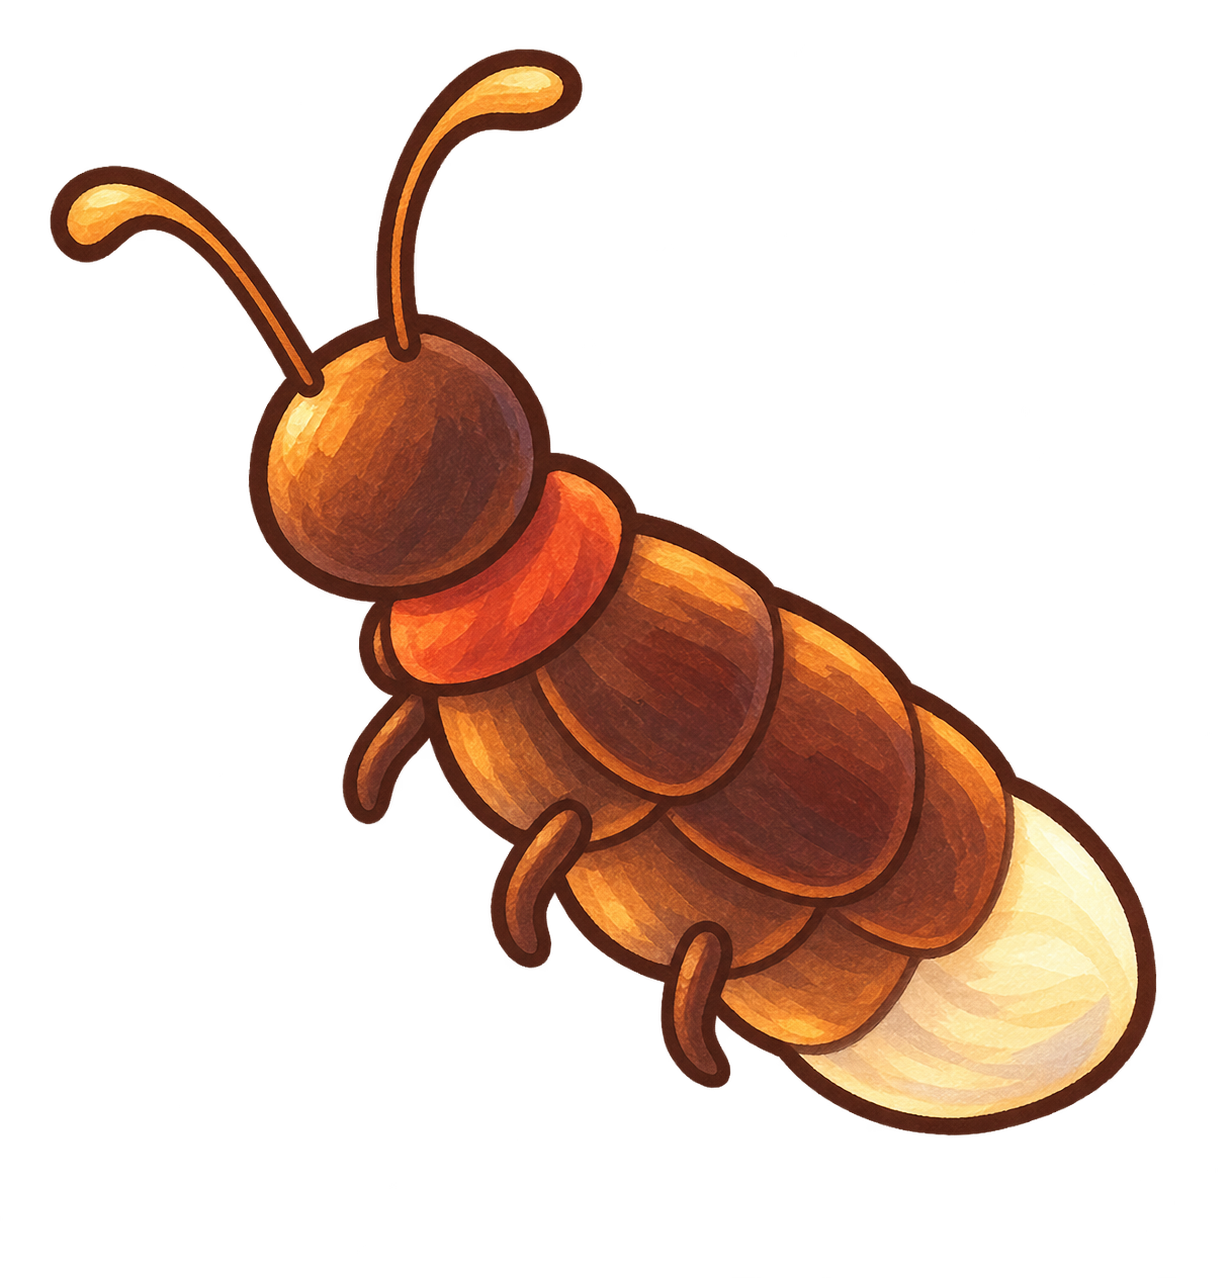
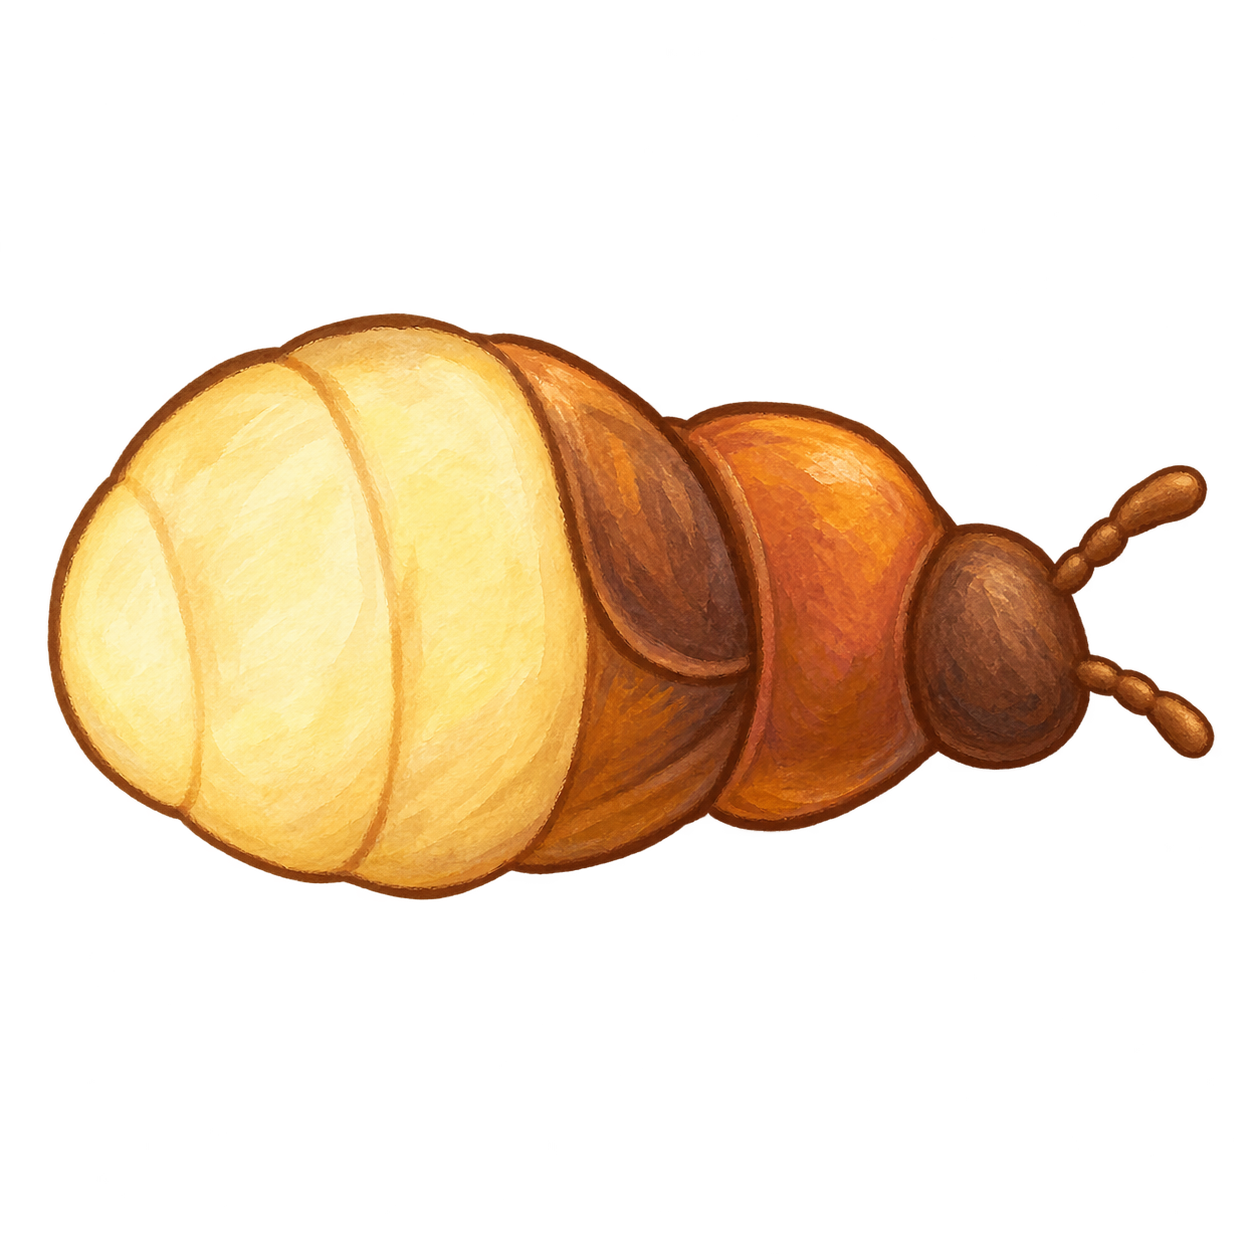
feat: the fireflies fly like insects, not like sprites on a path
New body/wing art (compact side profile, no face), and the animation
rebuilt around it with anchors measured off the sprites rather than
guessed: lantern centroid at x 0.237, wing hinge on the thorax.

The three things that make it read as flight:

- Heading. The body mirrors on the sign of horizontal velocity and
  pitches with vertical velocity, from analytic derivatives. Taken from
  the PRIMARY harmonic only — the fast wobble's velocity is as large as
  the drift's once divided by its short rate, which flipped the sprite
  every 1.3s and pegged pitch to the clamp. Heading follows the course,
  not the jitter: now a turn every 5.4s and a 14.3° peak under a 16°
  clamp it never reaches.
- Wings hinge instead of squashing. A 0x0 pivot view sits on the hinge,
  so its transform origin IS the hinge; scaleY read as the wing
  shrinking. Near and far wings beat ~10Hz with a phase lag.
- Drift stays in the jar. Home range plus max amplitude lands at
  x 0.133-0.858, y 0.143-0.827 — the old spec reached -0.063 and 1.048
  and would have clipped through the glass.

Each animated style keeps its single transform key on its own layer;
two in one array silently discards one.

diff --git a/components/jar/Firefly.tsx b/components/jar/Firefly.tsx
@@ -6,56 +6,79 @@ const BODY = require('@/assets/jar/fly-body.webp');
 const WING = require('@/assets/jar/fly-wing.webp');
 const GLOW = require('@/assets/jar/glow.webp');
 
-const BODY_AR = 176 / 173;
-const WING_AR = 176 / 79;
-/** Measured off fly-body.webp: the pale abdomen, as a fraction of the sprite. */
-export const LANTERN = { x: 0.823, y: 0.817 };
+/** All measured off the art, not guessed. The body is a side profile facing
+ *  RIGHT: lantern at the tail (left), thorax toward the head (right). */
+const BODY_AR = 200 / 101;
+const WING_AR = 200 / 152;
+/** Pale abdomen centroid, as a fraction of the body sprite. */
+const LANTERN = { x: 0.237, y: 0.476 };
+/** Where the wings hinge — on top of the thorax, which measured at x 0.615. */
+const WING_HINGE = { x: 0.575, y: 0.30 };
+/** The point on the wing sprite that sits at the hinge (its narrow root). */
+const WING_ROOT = { x: 0.12, y: 0.86 };
 
-/** Per-firefly constants, derived from an index so a re-render never reshuffles. */
 export interface FlySpec {
+  /** Sprite WIDTH — the body is nearly 2:1, so width is the honest dimension. */
   size: number;
-  /** Drift, as a fraction of the containing box. */
   homeX: number; homeY: number;
   ampX: number; ampY: number;
   rateX: number; rateY: number;
   phaseX: number; phaseY: number;
-  /** Flash cycle in seconds, and where in it this one starts. */
+  /** A faster second harmonic per axis, so the path never quite repeats. */
+  ampX2: number; ampY2: number;
+  rateX2: number; rateY2: number;
   period: number; offset: number;
-  /** Wingbeat rate, so they don't buzz in unison either. */
-  wing: number;
+  /** Wingbeat rate, and the far wing's lag behind the near one. */
+  beat: number; beatLag: number;
+  double: boolean;
 }
 
-/** Deterministic pseudo-random from an index — same jar every render. */
+/** Deterministic from the index — the same jar draws the same every render. */
 export function flySpec(i: number, seed = 0): FlySpec {
   const r = (n: number) => {
     const s = Math.sin((i + 1) * 12.9898 + n * 78.233 + seed * 3.71) * 43758.5453;
     return s - Math.floor(s);
   };
   return {
-    size: 17 + r(1) * 8,
-    homeX: 0.14 + r(2) * 0.72,
-    homeY: 0.14 + r(3) * 0.72,
-    // Wide enough to actually read as flight, and different per axis so the
-    // path is a lissajous loop rather than a diagonal shuffle.
-    ampX: 0.10 + r(4) * 0.16,
-    ampY: 0.08 + r(5) * 0.13,
-    rateX: 3.1 + r(6) * 3.4,
-    rateY: 2.3 + r(7) * 3.1,
+    size: 30 + r(1) * 16,
+    // Home range plus max amplitude has to stay inside 0–1 or the fly clips on
+    // the jar wall: 0.26..0.74 home and 0.18 total swing lands at 0.08..0.92,
+    // which leaves room for the sprite's own half-width.
+    homeX: 0.26 + r(2) * 0.48,
+    homeY: 0.26 + r(3) * 0.48,
+    ampX: 0.07 + r(4) * 0.07,
+    ampY: 0.055 + r(5) * 0.055,
+    // These are DIVISORS, so the period is 2*PI*rate. The old 3.7–7.6 meant a
+    // 23–48 second sweep, which is barely motion at all; 1.1–2.5 gives a 7–16
+    // second drift. Non-simple ratios between the axes so the path never closes
+    // into a figure-eight the eye can learn.
+    rateX: 1.1 + r(6) * 1.4,
+    rateY: 0.9 + r(7) * 1.1,
     phaseX: r(8) * Math.PI * 2,
     phaseY: r(9) * Math.PI * 2,
-    period: 2.4 + r(10) * 2.6,
-    offset: r(11),
-    wing: 17 + r(12) * 9,
+    // The second harmonic must be FASTER than the first — fine wobble riding on
+    // the slow drift. Smaller divisor, smaller amplitude.
+    ampX2: 0.018 + r(10) * 0.022,
+    ampY2: 0.014 + r(11) * 0.02,
+    rateX2: 0.3 + r(12) * 0.4,
+    rateY2: 0.26 + r(13) * 0.34,
+    period: 2.4 + r(14) * 2.8,
+    offset: r(15),
+    // ~9–12Hz. Fast enough to flutter, slow enough not to strobe at 60fps — a
+    // literal 50Hz wingbeat just aliases into jitter.
+    beat: 58 + r(16) * 20,
+    beatLag: 0.35 + r(17) * 0.5,
+    double: r(18) < 0.32,
   };
 }
 
 /**
- * One firefly: a lissajous drift, a flash envelope, and beating wings.
+ * One firefly: drifting flight, a flash envelope, and hinged wings.
  *
- * The glow is a pre-rendered radial sprite rather than a coloured View. A View
- * with a background colour and a shadow renders as a hard disc with a smear
- * around it — the falloff a real glow needs can't be expressed that way in RN,
- * and it reads as a flat blob at any size.
+ * The body banks and turns to face where it's going — mirrored on the sign of
+ * horizontal velocity, pitched by vertical velocity. That's the single biggest
+ * difference between "a sprite being moved around" and "a thing flying", and it
+ * costs two extra derivatives.
  */
 export function Firefly({
   spec,
@@ -63,7 +86,6 @@ export function Firefly({
   boxW,
   boxH,
   reduce,
-  /** 0 = settled at home, 1 = flung outward along its own heading. */
   scatter,
 }: {
   spec: FlySpec;
@@ -73,105 +95,167 @@ export function Firefly({
   reduce: boolean;
   scatter?: SharedValue<number>;
 }) {
-  const R = spec.size;
-  const bodyH = R / BODY_AR;
+  const W = spec.size;
+  const H = W / BODY_AR;
 
   const container = useAnimatedStyle(() => {
     'worklet';
     const t = clock.value;
-    const dx = Math.sin(t / spec.rateX + spec.phaseX) * spec.ampX;
-    const dy = Math.cos(t / spec.rateY + spec.phaseY) * spec.ampY;
-    let x = (spec.homeX + dx) * boxW - R / 2;
-    let y = (spec.homeY + dy) * boxH - bodyH / 2;
+    const dx = Math.sin(t / spec.rateX + spec.phaseX) * spec.ampX
+             + Math.sin(t / spec.rateX2 + spec.phaseY) * spec.ampX2;
+    const dy = Math.cos(t / spec.rateY + spec.phaseY) * spec.ampY
+             + Math.cos(t / spec.rateY2 + spec.phaseX) * spec.ampY2;
 
-    // Scatter: keep looping, but let the loop grow and travel outward so they
-    // spiral away crossing each other rather than firing off in straight lines.
+    let x = (spec.homeX + dx) * boxW - W / 2;
+    let y = (spec.homeY + dy) * boxH - H / 2;
+
     const s = scatter ? scatter.value : 0;
     if (s > 0) {
-      const heading = spec.phaseX + spec.phaseY;
+      const head = spec.phaseX + spec.phaseY;
       const spin = t * 2.4 + spec.offset * 6.28;
       const reach = s * Math.max(boxW, boxH) * 1.25;
-      x += Math.cos(heading) * reach + Math.cos(spin) * s * 46;
-      y += Math.sin(heading) * reach + Math.sin(spin) * s * 46;
+      x += Math.cos(head) * reach + Math.cos(spin) * s * 46;
+      y += Math.sin(head) * reach + Math.sin(spin) * s * 46;
     }
-    return { transform: [{ translateX: x }, { translateY: y }], opacity: 1 - (s > 0 ? s * s : 0) };
+    return { transform: [{ translateX: x }, { translateY: y }], opacity: 1 - s * s };
   }, [boxW, boxH]);
 
+  // Heading lives on its own layer. Two `transform` keys in one style array
+  // silently discard one — the bug that flattened the wing mirror last time.
+  const heading = useAnimatedStyle(() => {
+    'worklet';
+    if (reduce) return { transform: [{ scaleX: 1 }, { rotate: '0deg' }] };
+    const t = clock.value;
+    // Analytic derivatives — smoother and cheaper than differencing frames.
+    //
+    // Deliberately the PRIMARY harmonic only. The second harmonic is a small
+    // fast wobble, but dividing by its short rate makes its velocity as large
+    // as the drift's, so including it flipped the sprite every 1.3s and pinned
+    // pitch to the clamp. Heading follows the course, not the jitter.
+    const vx = Math.cos(t / spec.rateX + spec.phaseX) * (spec.ampX / spec.rateX);
+    const vy = -Math.sin(t / spec.rateY + spec.phaseY) * (spec.ampY / spec.rateY);
+    const dir = vx >= 0 ? 1 : -1;
+    // Noses up on the climb, down on the dive. Scaled so a typical drift sits
+    // well inside the clamp and only the steepest climb reaches it — an insect
+    // tilts a little; pegged at the limit reads as tumbling.
+    const pitch = Math.max(-16, Math.min(16, vy * 130)) * dir;
+    return { transform: [{ scaleX: dir }, { rotate: `${pitch}deg` }] };
+  }, [reduce]);
+
+  // One envelope, read by both the glow and the body, so the lantern and the
+  // lit-up body can never drift out of step.
   const glowStyle = useAnimatedStyle(() => {
     'worklet';
-    if (reduce) return { opacity: 0.55, transform: [{ scale: 1 }] };
+    if (reduce) return { opacity: 0.5, transform: [{ scale: 1 }] };
     const t = clock.value;
     const u = (((t / spec.period + spec.offset) % 1) + 1) % 1;
-    const ATTACK = 0.05;
-    const DECAY = 0.2;
+    const A = 0.035, D = 0.17;
     let l = 0;
-    if (u < ATTACK) l = u / ATTACK;
-    else if (u < ATTACK + DECAY) l = Math.pow(1 - (u - ATTACK) / DECAY, 1.8);
-    // Fine jitter so the light has texture instead of a clean ramp.
-    if (l > 0) l = Math.min(1, l * (1 + Math.sin(t * 34 + spec.offset * 9) * 0.09));
-    return { opacity: l, transform: [{ scale: 0.55 + l * 0.75 }] };
+    if (u < A) l = u / A;
+    else if (u < A + D) l = Math.pow(1 - (u - A) / D, 1.9);
+    else if (spec.double) {
+      const u2 = u - (A + D + 0.06);
+      if (u2 > 0 && u2 < 0.11) l = Math.pow(1 - u2 / 0.11, 1.6) * 0.55;
+    }
+    if (l > 0) l = Math.min(1, l * (1 + Math.sin(t * 31 + spec.offset * 9) * 0.08));
+    return { opacity: l, transform: [{ scale: 0.5 + l * 0.8 }] };
   }, [reduce]);
 
   const bodyStyle = useAnimatedStyle(() => {
     'worklet';
-    if (reduce) return { opacity: 0.85 };
+    if (reduce) return { opacity: 0.9 };
     const t = clock.value;
     const u = (((t / spec.period + spec.offset) % 1) + 1) % 1;
-    const lit = u < 0.25 ? 1 - u / 0.25 : 0;
-    return { opacity: 0.45 + lit * 0.55 };
+    const A = 0.035, D = 0.17;
+    let l = 0;
+    if (u < A) l = u / A;
+    else if (u < A + D) l = Math.pow(1 - (u - A) / D, 1.9);
+    return { opacity: 0.62 + l * 0.38 };
   }, [reduce]);
 
-  const wingStyle = useAnimatedStyle(() => {
+  // Rotation, not scaleY: in side profile a wing hinges up and down, and
+  // squashing it vertically reads as the wing shrinking rather than beating.
+  const wingNear = useAnimatedStyle(() => {
     'worklet';
-    if (reduce) return { opacity: 0.26, transform: [{ scaleY: 0.7 }] };
-    const t = clock.value;
+    if (reduce) return { transform: [{ rotate: '-14deg' }], opacity: 0.34 };
     return {
-      opacity: 0.24,
-      transform: [{ scaleY: 0.25 + Math.abs(Math.sin(t * spec.wing)) * 0.75 }],
+      transform: [{ rotate: `${-14 + Math.sin(clock.value * spec.beat) * 26}deg` }],
+      opacity: 0.34,
     };
   }, [reduce]);
 
-  const glowR = R * 3.4;
-  const wingW = R * 0.9;
+  const wingFar = useAnimatedStyle(() => {
+    'worklet';
+    if (reduce) return { transform: [{ rotate: '-20deg' }], opacity: 0.18 };
+    return {
+      transform: [{ rotate: `${-20 + Math.sin(clock.value * spec.beat + spec.beatLag) * 24}deg` }],
+      opacity: 0.18,
+    };
+  }, [reduce]);
+
+  const glowR = W * 1.5;
+  const wingW = W * 0.62;
   const wingH = wingW / WING_AR;
+  const hingeX = WING_HINGE.x * W;
+  const hingeY = WING_HINGE.y * H;
 
   return (
-    <Animated.View
-      style={[styles.fly, { width: R, height: bodyH }, container]}
-      pointerEvents="none"
-    >
-      <Animated.View
-        style={[
-          styles.abs,
-          {
-            width: glowR * 2,
-            height: glowR * 2,
-            left: LANTERN.x * R - glowR,
-            top: LANTERN.y * bodyH - glowR,
-          },
-          glowStyle,
-        ]}
-      >
-        <Image source={GLOW} style={styles.fill} contentFit="contain" transition={0} />
-      </Animated.View>
-
-      {[-1, 1].map((s) => (
-        <View
-          key={s}
+    <Animated.View style={[styles.fly, { width: W, height: H }, container]} pointerEvents="none">
+      <Animated.View style={[styles.fill, heading]}>
+        <Animated.View
           style={[
             styles.abs,
-            { width: wingW, height: wingH, left: R * 0.18, top: bodyH * 0.14, transform: [{ scaleX: s }] },
+            {
+              width: glowR * 2,
+              height: glowR * 2,
+              left: LANTERN.x * W - glowR,
+              top: LANTERN.y * H - glowR,
+            },
+            glowStyle,
           ]}
         >
-          <Animated.View style={[styles.fill, wingStyle]}>
-            <Image source={WING} style={styles.fill} contentFit="contain" transition={0} />
-          </Animated.View>
-        </View>
-      ))}
+          <Image source={GLOW} style={styles.fill} contentFit="contain" transition={0} />
+        </Animated.View>
 
-      <Animated.View style={[styles.fill, bodyStyle]}>
-        <Image source={BODY} style={styles.fill} contentFit="contain" transition={0} />
+        <Wing x={hingeX} y={hingeY - 2} w={wingW} h={wingH} style={wingFar} />
+
+        <Animated.View style={[styles.fill, bodyStyle]}>
+          <Image source={BODY} style={styles.fill} contentFit="contain" transition={0} />
+        </Animated.View>
+
+        <Wing x={hingeX} y={hingeY} w={wingW} h={wingH} style={wingNear} />
       </Animated.View>
+    </Animated.View>
+  );
+}
+
+/**
+ * A wing that hinges at its root.
+ *
+ * The outer view is zero-sized and sits exactly on the hinge, so its transform
+ * origin — the centre of a 0×0 box — IS the hinge. The image is then offset so
+ * its own root lands there. Rotating the wing image directly would pivot around
+ * the middle of the wing, which reads as spinning rather than flapping.
+ */
+function Wing({
+  x, y, w, h, style,
+}: {
+  x: number; y: number; w: number; h: number;
+  style: { transform: unknown[]; opacity: number };
+}) {
+  return (
+    <Animated.View style={[styles.hinge, { left: x, top: y }, style as never]}>
+      <View
+        style={{
+          position: 'absolute',
+          left: -w * WING_ROOT.x,
+          top: -h * WING_ROOT.y,
+          width: w,
+          height: h,
+        }}
+      >
+        <Image source={WING} style={styles.fill} contentFit="contain" transition={0} />
+      </View>
     </Animated.View>
   );
 }
@@ -180,4 +264,5 @@ const styles = StyleSheet.create({
   fly: { position: 'absolute', left: 0, top: 0 },
   abs: { position: 'absolute' },
   fill: { ...StyleSheet.absoluteFillObject },
+  hinge: { position: 'absolute', width: 0, height: 0 },
 });
